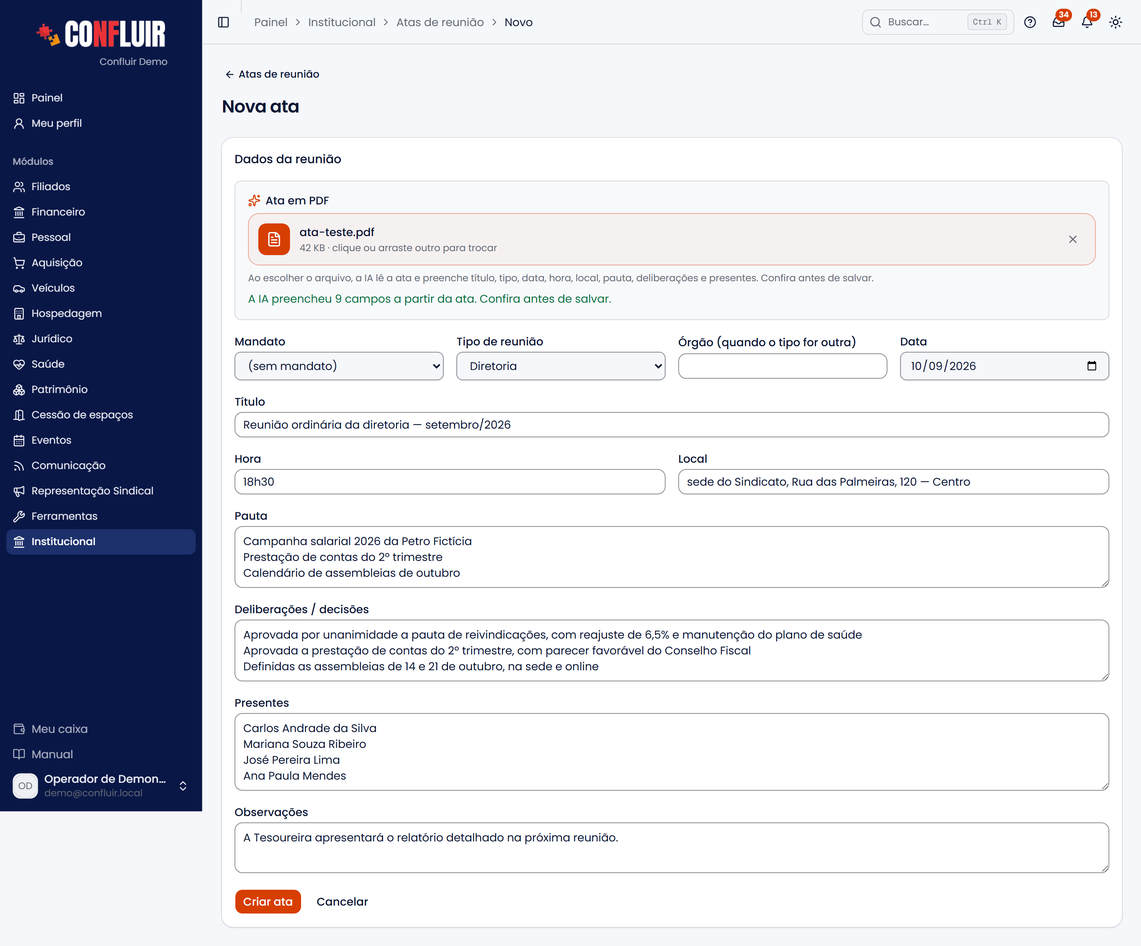
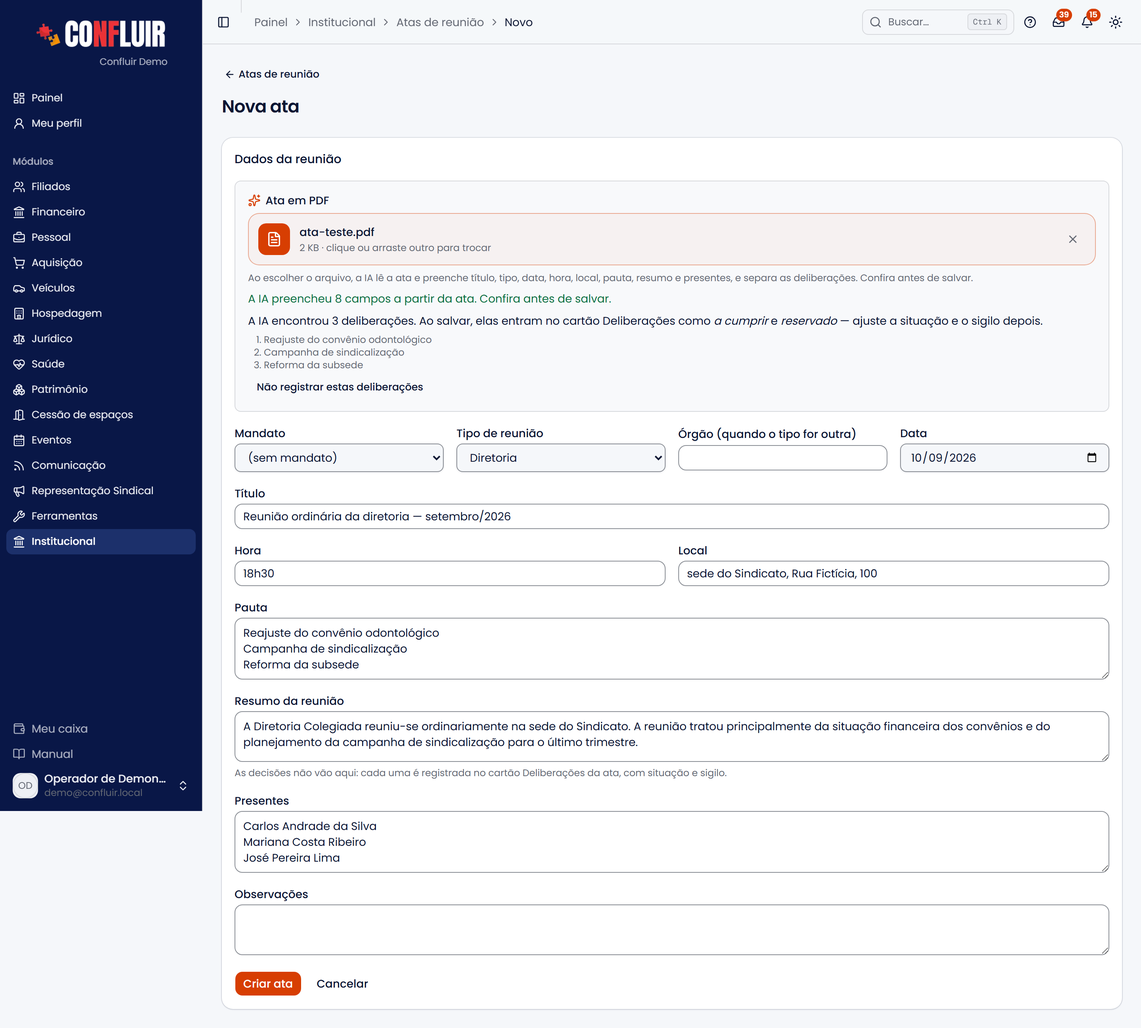
Atas de reunião: o campo de deliberações vira o resumo da reunião
reuniao_ata.deliberacoes renomeada para resumo (migração aplicada); as
decisões ficam só nos itens. A leitura do PDF por IA escreve o resumo e
separa as deliberações, gravadas ao salvar como a cumprir/reservado (só
em ata que ainda não tem nenhuma). Seed do demo, manual e print.

diff --git a/src/lib/ajuda/base-conhecimento.ts b/src/lib/ajuda/base-conhecimento.ts
@@ -317,7 +317,7 @@ export const BASE_AJUDA: ArtigoBase[] = [
   {
     "area": "institucional",
     "slug": "diretoria",
-    "texto": "A Diretoria organiza os mandatos e os integrantes da entidade — e é dela\nque saem os signatários dos ofícios. Ela tem duas abas: Mandatos e\nInstâncias.\n\n Mandatos e integrantes \n\n Mandatos e integrantes\n\n \n \nMandato: \n Um período de gestão, com início e fim. A página do mandato mostra os dados\n (lápis para editar), três cartões — Instâncias, Liberações sindicais e\n Atas de reunião, cada um com o total e a própria página — e os\n integrantes por grupo.\n \n \nA linha de cada integrante: \n Mostra o cargo, o departamento da pessoa em Organização (ou sem\n departamento), as instâncias em que representa a entidade, o selo\n Liberado quando há liberação vigente e a situação: licenciado ou\n excluído, com a data e o motivo.\n \n \nFicha do integrante: \n Cada integrante tem uma ficha: dados pessoais, endereço, vínculo, dados\n bancários, acessibilidade, contato de emergência e CNH — o que já está na\n filiação ou em Condutores aparece de lá.\n \n \n\n Licenciado ou excluído\n\nNo lápis do integrante, Situação no mandato: Em exercício (o padrão),\nLicenciado ou Excluído, com desde e motivo. A pessoa continua na\nlista do mandato, marcada — o excluído aparece riscado. Licenciado e excluído\nnão assinam ofícios: saem da lista de assinantes, mesmo com Assina ofícios\nmarcado.\n\n A ficha reflete os outros cadastros\n\nO que já existe em outro cadastro aparece na ficha — não se digita de novo.\nO que só o institucional tem continua nele.\n\n| Na ficha | De onde vem |\n|---|---|\n| Nascimento, e-mail, telefone, endereço, dados bancários, contato de emergência | Cadastro de filiação (selo Da filiação) |\n| Vínculos empregatícios (empresa, matrícula, lotação) | Cadastro de filiação, só para consulta |\n| CNH (número, categoria, validade, arquivo) | Veículos › Condutores, só para consulta |\n| Tamanho de camisa, tipo sanguíneo, acessibilidade | Só do institucional |\n\n \n\nAlterar na ficha altera a filiação: \n Para quem é filiado, mudar telefone, endereço, dados bancários ou o contato de\n emergência na ficha grava no cadastro de filiação — o mesmo dado passa a\n valer no perfil do filiado, nos reembolsos e no portal. A alteração fica\n registrada no prontuário da filiação. O contato de emergência editável é o\n primeiro da filiação; os demais continuam lá.\n \n\nA filiação é a vinculada ao integrante ou, sem vínculo, a do mesmo CPF. Um\nintegrante sem filiação (convidado, dirigente de outra base) tem a ficha\ncompleta guardada no institucional, como antes. A CNH aparece para quem está no\ncadastro de condutores — é lá que ela é cadastrada e atualizada.\n\n Instâncias\n\nInstâncias são as entidades em que o sindicato tem assento — conselhos,\ncomissões, fóruns. Elas são cadastradas fora do mandato, na aba\nInstâncias; os diretores são vinculados a elas dentro do mandato.\n\n \n \nCadastre a instância: \n Na aba Instâncias, em Nova instância: nome e descrição.\n \n \nVincule o diretor no mandato: \n Abra o mandato e, no cartão Instâncias, use Vincular diretor a uma\n instância: a instância, o diretor, o cargo nela, o período e o documento\n de posse.\n \n \nVeja a tag: \n Na lista de integrantes do mandato, quem tem vínculo em andamento ganha uma\n tag com o nome da instância. A página da instância lista todos os\n vínculos, de todos os mandatos, só para consulta.\n \n \n\n \n\n Liberações sindicais\n\nNo mandato, abra o cartão Liberações sindicais. Em Registrar liberação,\numa chave escolhe o jeito de lançar:\n\n- Individual — um diretor, o empregador, o tipo (permanente ou pontual), a\n vigência e o documento que oficializou.\n- Várias liberações — para quando um ofício libera várias pessoas, o\n caso mais comum.\n\n \n \nEscolha o ofício: \n O ofício é o da área de Ofícios — emita-o lá primeiro. O empregador vem\n preenchido com o destinatário do ofício, quando ele é uma fonte pagadora.\n \n \nAdicione as pessoas: \n Para cada pessoa, a data de saída e a data de retorno. A pessoa pode\n ser um diretor do mandato ou um trabalhador da base — escolha\n Trabalhador da base e busque o filiado; ele não precisa ser diretor. Sem\n data de retorno, a liberação fica permanente.\n \n \nRegistre: \n Uma liberação por pessoa é criada de uma vez, todas ligadas ao mesmo\n ofício. Na tabela, o trabalhador da base aparece com a marca base, e a\n coluna Documento leva ao ofício — que, por sua vez, lista as liberações\n registradas com ele.\n \n \n\n \n\nNo Meu perfil do diretor, a liberação aparece como em vigor, prevista\n(ainda não começou) ou encerrada.\n\n Signatários dos ofícios\n\nOs integrantes vigentes de um mandato são as pessoas oferecidas como\nassinantes ao emitir um ofício — por isso manter a diretoria em dia reflete\ndireto nos documentos.\n\n Atas de reunião\n\nAs atas ficam ancoradas no mandato — no cartão Atas de reunião — com tipo,\npauta, deliberações, presentes e o PDF da ata. Há também uma visão geral das\natas na área própria.\n\nDuas permissões separam quem lê de quem escreve: Atas de reunião —\nconsultar abre a lista, as atas e o PDF, sem os botões de Nova ata, Editar e\nExcluir; Atas de reunião — criar e editar faz tudo, inclusive consultar.\n\n Deliberações\n\nCada decisão da reunião é registrada como um item próprio, no cartão\nDeliberações da página da ata (Nova deliberação): assunto, teor da\ndecisão, votação, responsável, prazo, situação (a cumprir, em execução,\ncumprida ou cancelada) e sigilo (livre, reservado ou restrito). O lápis\nao lado de cada item edita — é assim que se atualiza a situação quando a\ndecisão é cumprida.\n\nEm Institucional → Deliberações ficam todas elas, da reunião mais recente\npara a mais antiga, com filtros por período (a data da reunião), assunto\n(busca no assunto e no teor), situação, sigilo e tipo de reunião. Os\nquadros no alto contam quantas estão em cada situação e filtram com um\nclique; prazo vencido de decisão ainda não cumprida aparece em vermelho.\nAbre com as mesmas permissões das atas.\n\n \n\nAs decisões que estavam no texto das atas antigas viraram itens — um por\nlinha, como a cumprir e reservado. Confira e ajuste a situação e o\nsigilo de cada uma.\n\nSuba o PDF e a IA preenche a ata: \n Em Nova ata, o campo Ata em PDF fica no alto. Ao escolher o arquivo, a\n IA lê a ata — digitada ou escaneada — e preenche tipo, data, título, hora,\n local, pauta, deliberações, presentes e observações. Confira antes de\n salvar. Numa ata já registrada, só os campos vazios são preenchidos.\n \n\n \n\n \n\n Diárias da diretoria\n\nDiretor também recebe diária, e ela mora aqui — na aba Diárias, não em\nPessoal. O motor é o mesmo das diárias de funcionário, mas a porta é outra: só\nentra quem tem a permissão Diárias da diretoria, então quem cuida de folha e\nponto não vê nem avalia a diretoria (e vice-versa).\n\nAs diárias de cada diretor entram na remessa dele, e a avaliação é da\nremessa inteira — o mesmo fluxo de Pessoal, com aprovar, devolver com\nobservação e reenviar (veja Diárias). As\nremessas da diretoria ficam no botão Remessas desta aba.\n\nNo alto ficam os números do ano: quantas aguardam avaliação, quantas foram\naprovadas, o valor das diárias e o das despesas extras — e, logo abaixo, o\naprovado por departamento, que é como a contabilidade enxerga.\n\n \n \nLançar: \n Lançar diária abre o formulário (com Salvar e lançar outra ou\n Salvar e enviar a remessa): o diretor, o departamento que banca a\n atividade, o tipo, a quantidade, o período e a atividade. Quase nenhum\n diretor tem conta no sistema, então quem costuma lançar é a secretaria — o\n sistema guarda quem digitou. Quem tem conta pede a própria em\n Meu perfil → Minhas diárias.\n \n \nAcrescentar as despesas: \n Na tela da diária, enquanto ela aguarda avaliação, entram as despesas\n extras — hospedagem, alimentação, passagem — com valor e comprovante.\n \n \nAvaliar a remessa: \n Em Remessas, abra a remessa do diretor e aprove — nasce uma ordem\n de pagamento com o valor da remessa, rateada pelas contas dos\n departamentos — ou devolva com observação. Como quase nenhum diretor\n tem conta, quem corrige e reenvia é a própria secretaria, na tela da\n remessa (o botão Retirar tira uma diária com problema).\n \n \n\n \n\nO departamento decide a conta contábil: \n O departamento do diretor vem do cadastro dele (Organização → Departamentos)\n ou do próprio cargo, e pode ser trocado no lançamento quando a atividade é de\n outra área. É ele que escolhe a conta — no plano de contas, \"Deslocamento\n Diretores\" existe repetido em cada departamento.\n \n\n \n\n \n\nAs diárias de cada diretor também aparecem na ficha dele, com o total\naprovado no ano.\n\n Erros comuns\n\n- \"O signatário não aparece ao emitir um ofício.\" Só os integrantes\n vigentes do mandato são oferecidos como assinantes — confira o período do\n mandato e o cargo do integrante.\n- \"A ata não aparece.\" As atas ficam ancoradas no mandato; abra o\n cartão Atas de reunião do mandato (há também a visão geral na área própria).\n- \"O integrante aparece sem departamento.\" Vincule a pessoa em\n Institucional → Organização → Departamentos (ela precisa ter conta de usuário).\n- \"Uma diretora licenciada ainda aparece como assinante.\" Confira a\n Situação no mandato no lápis dela — licenciado e excluído saem dos assinantes.\n- \"Mudei o telefone na ficha e mudou no filiado.\" É o esperado: para quem\n é filiado, a ficha e a filiação são o mesmo cadastro.\n- \"A CNH não aparece na ficha.\" A pessoa não está em Veículos › Condutores\n (ou não tem conta de usuário com o mesmo CPF). Cadastre lá.\n- \"Não acho o ofício para vincular as liberações.\" Só aparecem ofícios\n emitidos na área de Ofícios. Emita-o lá e volte.\n- \"Não consigo vincular o diretor à instância na página dela.\" O vínculo\n é lançado dentro do mandato, no cartão Instâncias; a página da instância é\n só consulta.\n- \"O integrante saiu da diretoria mas continua aparecendo.\" Encerre o\n mandato ou o vínculo do integrante para tirá-lo dos vigentes.\n- \"A aba Diárias não aparece.\" Ela só aparece para quem tem a permissão\n Diárias da diretoria — peça a quem administra os acessos.\n- \"O diretor não aparece no formulário de diária.\" Só entram integrantes\n em exercício do mandato vigente que tenham cadastro de usuário. Ligue a\n pessoa a um usuário no lápis dela, no mandato.\n- \"Não há tipo de diária para escolher.\" Os tipos ficam em Pessoal →\n Diárias → Tipos de diária, e cada um diz se vale para funcionários, para a\n diretoria ou para os dois.\n- \"A diária do diretor apareceu na conta errada.\" Confira o departamento da\n solicitação e o de-para em Diárias → Centros de custo.\n- \"Não acho onde aprovar a diária do diretor.\" A avaliação é da remessa:\n botão Remessas, nesta aba, ou Abrir a remessa para avaliar na tela da\n diária. Na lista, as diárias têm só Ver."
+    "texto": "A Diretoria organiza os mandatos e os integrantes da entidade — e é dela\nque saem os signatários dos ofícios. Ela tem duas abas: Mandatos e\nInstâncias.\n\n Mandatos e integrantes \n\n Mandatos e integrantes\n\n \n \nMandato: \n Um período de gestão, com início e fim. A página do mandato mostra os dados\n (lápis para editar), três cartões — Instâncias, Liberações sindicais e\n Atas de reunião, cada um com o total e a própria página — e os\n integrantes por grupo.\n \n \nA linha de cada integrante: \n Mostra o cargo, o departamento da pessoa em Organização (ou sem\n departamento), as instâncias em que representa a entidade, o selo\n Liberado quando há liberação vigente e a situação: licenciado ou\n excluído, com a data e o motivo.\n \n \nFicha do integrante: \n Cada integrante tem uma ficha: dados pessoais, endereço, vínculo, dados\n bancários, acessibilidade, contato de emergência e CNH — o que já está na\n filiação ou em Condutores aparece de lá.\n \n \n\n Licenciado ou excluído\n\nNo lápis do integrante, Situação no mandato: Em exercício (o padrão),\nLicenciado ou Excluído, com desde e motivo. A pessoa continua na\nlista do mandato, marcada — o excluído aparece riscado. Licenciado e excluído\nnão assinam ofícios: saem da lista de assinantes, mesmo com Assina ofícios\nmarcado.\n\n A ficha reflete os outros cadastros\n\nO que já existe em outro cadastro aparece na ficha — não se digita de novo.\nO que só o institucional tem continua nele.\n\n| Na ficha | De onde vem |\n|---|---|\n| Nascimento, e-mail, telefone, endereço, dados bancários, contato de emergência | Cadastro de filiação (selo Da filiação) |\n| Vínculos empregatícios (empresa, matrícula, lotação) | Cadastro de filiação, só para consulta |\n| CNH (número, categoria, validade, arquivo) | Veículos › Condutores, só para consulta |\n| Tamanho de camisa, tipo sanguíneo, acessibilidade | Só do institucional |\n\n \n\nAlterar na ficha altera a filiação: \n Para quem é filiado, mudar telefone, endereço, dados bancários ou o contato de\n emergência na ficha grava no cadastro de filiação — o mesmo dado passa a\n valer no perfil do filiado, nos reembolsos e no portal. A alteração fica\n registrada no prontuário da filiação. O contato de emergência editável é o\n primeiro da filiação; os demais continuam lá.\n \n\nA filiação é a vinculada ao integrante ou, sem vínculo, a do mesmo CPF. Um\nintegrante sem filiação (convidado, dirigente de outra base) tem a ficha\ncompleta guardada no institucional, como antes. A CNH aparece para quem está no\ncadastro de condutores — é lá que ela é cadastrada e atualizada.\n\n Instâncias\n\nInstâncias são as entidades em que o sindicato tem assento — conselhos,\ncomissões, fóruns. Elas são cadastradas fora do mandato, na aba\nInstâncias; os diretores são vinculados a elas dentro do mandato.\n\n \n \nCadastre a instância: \n Na aba Instâncias, em Nova instância: nome e descrição.\n \n \nVincule o diretor no mandato: \n Abra o mandato e, no cartão Instâncias, use Vincular diretor a uma\n instância: a instância, o diretor, o cargo nela, o período e o documento\n de posse.\n \n \nVeja a tag: \n Na lista de integrantes do mandato, quem tem vínculo em andamento ganha uma\n tag com o nome da instância. A página da instância lista todos os\n vínculos, de todos os mandatos, só para consulta.\n \n \n\n \n\n Liberações sindicais\n\nNo mandato, abra o cartão Liberações sindicais. Em Registrar liberação,\numa chave escolhe o jeito de lançar:\n\n- Individual — um diretor, o empregador, o tipo (permanente ou pontual), a\n vigência e o documento que oficializou.\n- Várias liberações — para quando um ofício libera várias pessoas, o\n caso mais comum.\n\n \n \nEscolha o ofício: \n O ofício é o da área de Ofícios — emita-o lá primeiro. O empregador vem\n preenchido com o destinatário do ofício, quando ele é uma fonte pagadora.\n \n \nAdicione as pessoas: \n Para cada pessoa, a data de saída e a data de retorno. A pessoa pode\n ser um diretor do mandato ou um trabalhador da base — escolha\n Trabalhador da base e busque o filiado; ele não precisa ser diretor. Sem\n data de retorno, a liberação fica permanente.\n \n \nRegistre: \n Uma liberação por pessoa é criada de uma vez, todas ligadas ao mesmo\n ofício. Na tabela, o trabalhador da base aparece com a marca base, e a\n coluna Documento leva ao ofício — que, por sua vez, lista as liberações\n registradas com ele.\n \n \n\n \n\nNo Meu perfil do diretor, a liberação aparece como em vigor, prevista\n(ainda não começou) ou encerrada.\n\n Signatários dos ofícios\n\nOs integrantes vigentes de um mandato são as pessoas oferecidas como\nassinantes ao emitir um ofício — por isso manter a diretoria em dia reflete\ndireto nos documentos.\n\n Atas de reunião\n\nAs atas ficam ancoradas no mandato — no cartão Atas de reunião — com tipo,\npauta, um breve resumo da reunião, presentes e o PDF da ata. As decisões\nnão vão no resumo: cada uma é uma deliberação própria (abaixo). Há também uma visão geral das\natas na área própria.\n\nDuas permissões separam quem lê de quem escreve: Atas de reunião —\nconsultar abre a lista, as atas e o PDF, sem os botões de Nova ata, Editar e\nExcluir; Atas de reunião — criar e editar faz tudo, inclusive consultar.\n\n Deliberações\n\nCada decisão da reunião é registrada como um item próprio, no cartão\nDeliberações da página da ata (Nova deliberação): assunto, teor da\ndecisão, votação, responsável, prazo, situação (a cumprir, em execução,\ncumprida ou cancelada) e sigilo (livre, reservado ou restrito). O lápis\nao lado de cada item edita — é assim que se atualiza a situação quando a\ndecisão é cumprida.\n\nEm Institucional → Deliberações ficam todas elas, da reunião mais recente\npara a mais antiga, com filtros por período (a data da reunião), assunto\n(busca no assunto e no teor), situação, sigilo e tipo de reunião. Os\nquadros no alto contam quantas estão em cada situação e filtram com um\nclique; prazo vencido de decisão ainda não cumprida aparece em vermelho.\nAbre com as mesmas permissões das atas.\n\n \n\nAs decisões que estavam no texto das atas antigas viraram itens — um por\nlinha, como a cumprir e reservado —, e aquele texto passou a ser o\nresumo da ata. Confira a situação e o sigilo de cada item e, se quiser,\nreescreva o resumo.\n\nSuba o PDF e a IA preenche a ata: \n Em Nova ata, o campo Ata em PDF fica no alto. Ao escolher o arquivo, a\n IA lê a ata — digitada ou escaneada — e preenche tipo, data, título, hora,\n local, pauta, resumo, presentes e observações, e separa as\n deliberações: a lista aparece no formulário e, ao salvar, cada uma vira\n um item a cumprir e reservado (o botão Não registrar estas\n deliberações descarta a lista). Confira antes de salvar. Numa ata já\n registrada, só os campos vazios são preenchidos, e as deliberações lidas só\n entram se a ata ainda não tiver nenhuma.\n \n\n \n\n \n\n Diárias da diretoria\n\nDiretor também recebe diária, e ela mora aqui — na aba Diárias, não em\nPessoal. O motor é o mesmo das diárias de funcionário, mas a porta é outra: só\nentra quem tem a permissão Diárias da diretoria, então quem cuida de folha e\nponto não vê nem avalia a diretoria (e vice-versa).\n\nAs diárias de cada diretor entram na remessa dele, e a avaliação é da\nremessa inteira — o mesmo fluxo de Pessoal, com aprovar, devolver com\nobservação e reenviar (veja Diárias). As\nremessas da diretoria ficam no botão Remessas desta aba.\n\nNo alto ficam os números do ano: quantas aguardam avaliação, quantas foram\naprovadas, o valor das diárias e o das despesas extras — e, logo abaixo, o\naprovado por departamento, que é como a contabilidade enxerga.\n\n \n \nLançar: \n Lançar diária abre o formulário (com Salvar e lançar outra ou\n Salvar e enviar a remessa): o diretor, o departamento que banca a\n atividade, o tipo, a quantidade, o período e a atividade. Quase nenhum\n diretor tem conta no sistema, então quem costuma lançar é a secretaria — o\n sistema guarda quem digitou. Quem tem conta pede a própria em\n Meu perfil → Minhas diárias.\n \n \nAcrescentar as despesas: \n Na tela da diária, enquanto ela aguarda avaliação, entram as despesas\n extras — hospedagem, alimentação, passagem — com valor e comprovante.\n \n \nAvaliar a remessa: \n Em Remessas, abra a remessa do diretor e aprove — nasce uma ordem\n de pagamento com o valor da remessa, rateada pelas contas dos\n departamentos — ou devolva com observação. Como quase nenhum diretor\n tem conta, quem corrige e reenvia é a própria secretaria, na tela da\n remessa (o botão Retirar tira uma diária com problema).\n \n \n\n \n\nO departamento decide a conta contábil: \n O departamento do diretor vem do cadastro dele (Organização → Departamentos)\n ou do próprio cargo, e pode ser trocado no lançamento quando a atividade é de\n outra área. É ele que escolhe a conta — no plano de contas, \"Deslocamento\n Diretores\" existe repetido em cada departamento.\n \n\n \n\n \n\nAs diárias de cada diretor também aparecem na ficha dele, com o total\naprovado no ano.\n\n Erros comuns\n\n- \"O signatário não aparece ao emitir um ofício.\" Só os integrantes\n vigentes do mandato são oferecidos como assinantes — confira o período do\n mandato e o cargo do integrante.\n- \"A ata não aparece.\" As atas ficam ancoradas no mandato; abra o\n cartão Atas de reunião do mandato (há também a visão geral na área própria).\n- \"O integrante aparece sem departamento.\" Vincule a pessoa em\n Institucional → Organização → Departamentos (ela precisa ter conta de usuário).\n- \"Uma diretora licenciada ainda aparece como assinante.\" Confira a\n Situação no mandato no lápis dela — licenciado e excluído saem dos assinantes.\n- \"Mudei o telefone na ficha e mudou no filiado.\" É o esperado: para quem\n é filiado, a ficha e a filiação são o mesmo cadastro.\n- \"A CNH não aparece na ficha.\" A pessoa não está em Veículos › Condutores\n (ou não tem conta de usuário com o mesmo CPF). Cadastre lá.\n- \"Não acho o ofício para vincular as liberações.\" Só aparecem ofícios\n emitidos na área de Ofícios. Emita-o lá e volte.\n- \"Não consigo vincular o diretor à instância na página dela.\" O vínculo\n é lançado dentro do mandato, no cartão Instâncias; a página da instância é\n só consulta.\n- \"O integrante saiu da diretoria mas continua aparecendo.\" Encerre o\n mandato ou o vínculo do integrante para tirá-lo dos vigentes.\n- \"A aba Diárias não aparece.\" Ela só aparece para quem tem a permissão\n Diárias da diretoria — peça a quem administra os acessos.\n- \"O diretor não aparece no formulário de diária.\" Só entram integrantes\n em exercício do mandato vigente que tenham cadastro de usuário. Ligue a\n pessoa a um usuário no lápis dela, no mandato.\n- \"Não há tipo de diária para escolher.\" Os tipos ficam em Pessoal →\n Diárias → Tipos de diária, e cada um diz se vale para funcionários, para a\n diretoria ou para os dois.\n- \"A diária do diretor apareceu na conta errada.\" Confira o departamento da\n solicitação e o de-para em Diárias → Centros de custo.\n- \"Não acho onde aprovar a diária do diretor.\" A avaliação é da remessa:\n botão Remessas, nesta aba, ou Abrir a remessa para avaliar na tela da\n diária. Na lista, as diárias têm só Ver."
   },
   {
     "area": "institucional",

diff --git a/src/app/painel/institucional/atas/ata-form.tsx b/src/app/painel/institucional/atas/ata-form.tsx
@@ -16,7 +16,7 @@ import {
   criarAtaAction,
   excluirAtaAction,
 } from "./actions"
-import { extrairAtaDePdf } from "./ia-actions"
+import { extrairAtaDePdf, type DeliberacaoLida } from "./ia-actions"
 import { useEnvioFormulario } from "@/hooks/use-envio-formulario"
 
 const SELECT =
@@ -29,11 +29,14 @@ export function AtaForm({
   mandatos,
   mandatoPadrao,
   aoCancelarHref,
+  temDeliberacoes = false,
 }: {
   ata?: AtaDetalhe
   mandatos: { id: string; nome: string }[]
   mandatoPadrao?: string
   aoCancelarHref: string
+  /** A ata já tem deliberações: as lidas do PDF não entram (não duplica). */
+  temDeliberacoes?: boolean
 }) {
   const [estado, formAction, pendente] = useActionState(
     ata ? atualizarAtaAction : criarAtaAction,
@@ -46,11 +49,13 @@ export function AtaForm({
   })
   const [lendo, iniciarLeitura] = useTransition()
   const [leitura, setLeitura] = useState<{ ok?: string; erro?: string } | null>(null)
+  const [lidas, setLidas] = useState<DeliberacaoLida[]>([])
 
   // Subiu o PDF: a IA lê a ata e preenche o formulário. Numa ata já salva, só
   // os campos vazios — o que alguém digitou não é sobrescrito.
   function lerComIA(arquivo: File | undefined) {
     setLeitura(null)
+    setLidas([])
     if (!arquivo || arquivo.type !== "application/pdf") return
     const dados = new FormData()
     dados.set("documento", arquivo)
@@ -69,6 +74,7 @@ export function AtaForm({
         el.value = valor
         preenchidos++
       }
+      if (!temDeliberacoes) setLidas(r.deliberacoes ?? [])
       setLeitura({
         ok: preenchidos
           ? `A IA preencheu ${preenchidos} ${preenchidos === 1 ? "campo" : "campos"} a partir da ata. Confira antes de salvar.`
@@ -80,6 +86,7 @@ export function AtaForm({
   return (
     <form action={formAction} {...envio2} className="grid gap-5">
       {ata && <input type="hidden" name="ata_id" value={ata.id} />}
+      <input type="hidden" name="deliberacoes_ia" value={JSON.stringify(lidas)} />
       {estado.erro && (
         <Alert variant="destructive">
           <AlertDescription>{estado.erro}</AlertDescription>
@@ -100,7 +107,8 @@ export function AtaForm({
         />
         <p className="text-muted-foreground text-xs">
           Ao escolher o arquivo, a IA lê a ata e preenche título, tipo, data, hora, local, pauta,
-          deliberações e presentes{ata ? " que estiverem vazios" : ""}. Confira antes de salvar.
+          resumo e presentes{ata ? " que estiverem vazios" : ""}, e separa as deliberações. Confira antes
+          de salvar.
         </p>
         {lendo && (
           <p className="text-muted-foreground flex items-center gap-1.5 text-sm">
@@ -110,6 +118,23 @@ export function AtaForm({
         )}
         {leitura?.ok && <p className="text-success-fg text-sm">{leitura.ok}</p>}
         {leitura?.erro && <p className="text-destructive text-sm">{leitura.erro}</p>}
+        {lidas.length > 0 && (
+          <div className="grid gap-1.5 text-sm">
+            <p>
+              A IA encontrou {lidas.length} {lidas.length === 1 ? "deliberação" : "deliberações"}. Ao salvar,
+              {lidas.length === 1 ? " ela entra" : " elas entram"} no cartão Deliberações como <em>a cumprir</em> e{" "}
+              <em>reservado</em> — ajuste a situação e o sigilo depois.
+            </p>
+            <ol className="text-muted-foreground list-decimal pl-5 text-xs">
+              {lidas.map((d, i) => (
+                <li key={i}>{d.assunto}</li>
+              ))}
+            </ol>
+            <Button type="button" variant="ghost" size="sm" className="justify-self-start" onClick={() => setLidas([])}>
+              Não registrar estas deliberações
+            </Button>
+          </div>
+        )}
       </div>
 
       <div className="grid gap-4 sm:grid-cols-2 lg:grid-cols-4">
@@ -187,13 +212,17 @@ export function AtaForm({
       </div>
 
       <div className="grid gap-1.5">
-        <Label htmlFor="deliberacoes">Deliberações / decisões</Label>
+        <Label htmlFor="resumo">Resumo da reunião</Label>
         <Textarea
-          id="deliberacoes"
-          name="deliberacoes"
-          rows={4}
-          defaultValue={ata?.deliberacoes ?? ""}
+          id="resumo"
+          name="resumo"
+          rows={3}
+          defaultValue={ata?.resumo ?? ""}
+          placeholder="Em poucas frases, o que se discutiu."
         />
+        <p className="text-muted-foreground text-xs">
+          As decisões não vão aqui: cada uma é registrada no cartão Deliberações da ata, com situação e sigilo.
+        </p>
       </div>
 
       <div className="grid gap-1.5">

diff --git a/src/app/painel/institucional/atas/actions.ts b/src/app/painel/institucional/atas/actions.ts
@@ -12,6 +12,7 @@ import {
   subirDocumentoAta,
   type DadosAta,
 } from "@/lib/db/atas"
+import { registrarDeliberacoesLidas } from "@/lib/db/deliberacoes"
 import { TIPOS_REUNIAO, type TipoReuniao } from "@/lib/atas-constantes"
 
 function texto(fd: FormData, campo: string): string {
@@ -51,9 +52,37 @@ function lerDados(fd: FormData): Omit<DadosAta, "documento_url"> {
     hora: ouNull(texto(fd, "hora")),
     local: ouNull(texto(fd, "local")),
     pauta: ouNull(texto(fd, "pauta")),
-    deliberacoes: ouNull(texto(fd, "deliberacoes")),
+    resumo: ouNull(texto(fd, "resumo")),
     presentes: ouNull(texto(fd, "presentes")),
     observacoes: ouNull(texto(fd, "observacoes")),
+  }
+}
+
+/**
+ * Deliberações que a IA leu do PDF, vindas do formulário como JSON
+ * (`deliberacoes_ia`). Formato inválido = nenhuma.
+ */
+function lerDeliberacoesLidas(fd: FormData) {
+  try {
+    const lista = JSON.parse(String(fd.get("deliberacoes_ia") ?? "[]")) as unknown
+    if (!Array.isArray(lista)) return []
+    return lista.slice(0, 50).flatMap((d) => {
+      if (!d || typeof d !== "object") return []
+      const o = d as Record<string, unknown>
+      const s = (k: string) => (typeof o[k] === "string" ? (o[k] as string).trim() : "")
+      const assunto = s("assunto").slice(0, 200)
+      if (!assunto) return []
+      const prazo = s("prazo")
+      return [{
+        assunto,
+        texto: s("texto") || null,
+        votacao: s("votacao") || null,
+        responsavel: s("responsavel") || null,
+        prazo: /^\d{4}-\d{2}-\d{2}$/.test(prazo) ? prazo : null,
+      }]
+    })
+  } catch {
+    return []
   }
 }
 
@@ -61,12 +90,15 @@ export async function criarAtaAction(
   _prev: EstadoForm,
   fd: FormData
 ): Promise<EstadoForm> {
-  await requirePermissao("diretoria_reunioes")
+  const sessao = await requirePermissao("diretoria_reunioes")
   const { caminho, erro: erroArq } = await lerDocumento(fd)
   if (erroArq) return { erro: erroArq }
   const dados = lerDados(fd)
   const { id, erro } = await criarAta({ ...dados, documento_url: caminho ?? null })
   if (erro || !id) return { erro: erro ?? "Falha ao criar." }
+  // A ata já existe: falha nas deliberações lidas não desfaz a ata — elas
+  // podem ser lançadas à mão no cartão Deliberações.
+  await registrarDeliberacoesLidas(id, lerDeliberacoesLidas(fd), sessao.usuario.id)
   revalidar(id, dados.mandato_id ?? undefined)
   redirect(`/painel/institucional/atas/${id}?salvo=1`)
 }
@@ -75,7 +107,7 @@ export async function atualizarAtaAction(
   _prev: EstadoForm,
   fd: FormData
 ): Promise<EstadoForm> {
-  await requirePermissao("diretoria_reunioes")
+  const sessao = await requirePermissao("diretoria_reunioes")
   const id = texto(fd, "ata_id")
   if (!id) return { erro: "Ata inválida." }
   const { caminho, erro: erroArq } = await lerDocumento(fd)
@@ -83,6 +115,8 @@ export async function atualizarAtaAction(
   const dados = lerDados(fd)
   const { erro } = await atualizarAta(id, { ...dados, documento_url: caminho })
   if (erro) return { erro }
+  // Só entram se a ata ainda não tem deliberações (ver registrarDeliberacoesLidas).
+  await registrarDeliberacoesLidas(id, lerDeliberacoesLidas(fd), sessao.usuario.id)
   revalidar(id, dados.mandato_id ?? undefined)
   redirect(`/painel/institucional/atas/${id}?salvo=1`)
 }

diff --git a/src/app/painel/institucional/atas/ia-actions.ts b/src/app/painel/institucional/atas/ia-actions.ts
@@ -6,12 +6,22 @@ import { requirePermissao } from "@/lib/auth"
 import { TIPOS_REUNIAO } from "@/lib/atas-constantes"
 import { gerarJsonIA, gerarJsonIADePdf } from "@/lib/ia"
 
+/** Deliberação lida da ata — vira item ao salvar (a cumprir, reservado). */
+export type DeliberacaoLida = {
+  assunto: string
+  texto: string
+  votacao: string
+  responsavel: string
+  prazo: string
+}
+
 export type ExtracaoAta = {
   valores?: Partial<Record<CampoAta, string>>
+  deliberacoes?: DeliberacaoLida[]
   erro?: string
 }
 
-const CAMPOS = ["titulo", "tipo", "orgao", "data", "hora", "local", "pauta", "deliberacoes", "presentes", "observacoes"] as const
+const CAMPOS = ["titulo", "tipo", "orgao", "data", "hora", "local", "pauta", "resumo", "presentes", "observacoes"] as const
 type CampoAta = (typeof CAMPOS)[number]
 
 const SISTEMA = `Você lê a ata de uma reunião de sindicato e devolve um objeto JSON com os campos abaixo.
@@ -23,7 +33,8 @@ Regras:
 - "data": AAAA-MM-DD. "hora": como no documento, ex. "14h00".
 - "local": onde a reunião aconteceu.
 - "pauta": os itens de pauta, um por linha.
-- "deliberacoes": o que foi decidido, um item por linha, com a decisão e (se houver) o resultado da votação.
+- "resumo": um breve resumo da reunião em 2 a 4 frases — o que se discutiu e o contexto. NÃO liste as decisões aqui.
+- "deliberacoes": a lista das decisões tomadas, cada uma um objeto { "assunto": título curto (até 80 caracteres), "texto": o teor da decisão como consta da ata, "votacao": o resultado da votação se houver (ex. "aprovada por unanimidade"), senão "", "responsavel": quem ficou encarregado de cumprir, se dito, senão "", "prazo": AAAA-MM-DD se a ata fixar prazo, senão "" }. Sem decisões = [].
 - "presentes": os nomes dos presentes, um por linha, sem cargos.
 - "observacoes": encaminhamentos, prazos ou registros que não caibam nos outros campos; senão "".
 - Responda APENAS com o objeto JSON.`
@@ -68,6 +79,25 @@ export async function extrairAtaDePdf(formData: FormData): Promise<ExtracaoAta> 
     if (campo === "tipo" && !TIPOS_REUNIAO.some((t) => t.chave === valor)) continue
     valores[campo] = valor
   }
-  if (Object.keys(valores).length === 0) return { erro: "A IA não encontrou os dados da reunião neste PDF." }
-  return { valores }
+  const deliberacoes: DeliberacaoLida[] = []
+  for (const d of Array.isArray(dados.deliberacoes) ? dados.deliberacoes : []) {
+    if (!d || typeof d !== "object") continue
+    const o = d as Record<string, unknown>
+    const s = (k: string) => (typeof o[k] === "string" ? (o[k] as string).trim() : "")
+    const texto = s("texto")
+    const assunto = (s("assunto") || texto).slice(0, 200)
+    if (!assunto) continue
+    const prazo = s("prazo")
+    deliberacoes.push({
+      assunto,
+      texto,
+      votacao: s("votacao"),
+      responsavel: s("responsavel"),
+      prazo: /^\d{4}-\d{2}-\d{2}$/.test(prazo) ? prazo : "",
+    })
+  }
+  if (Object.keys(valores).length === 0 && deliberacoes.length === 0) {
+    return { erro: "A IA não encontrou os dados da reunião neste PDF." }
+  }
+  return { valores, deliberacoes: deliberacoes.slice(0, 50) }
 }

diff --git a/src/lib/db/deliberacoes.ts b/src/lib/db/deliberacoes.ts
@@ -242,3 +242,38 @@ export async function excluirDeliberacao(id: string): Promise<{ erro?: string }>
   if (error) return { erro: `Falha ao excluir a deliberação: ${error.message}` }
   return {}
 }
+
+/**
+ * Deliberações lidas do PDF pela IA, gravadas ao salvar a ata — como "a
+ * cumprir" e "reservado", para conferir depois. Só entram numa ata que
+ * ainda não tem deliberações (reler o PDF não duplica).
+ */
+export async function registrarDeliberacoesLidas(
+  ataId: string,
+  itens: Omit<DadosDeliberacao, "situacao" | "sigilo">[],
+  usuarioId: string
+): Promise<{ quantidade: number; erro?: string }> {
+  if (itens.length === 0) return { quantidade: 0 }
+  const admin = await createAdminClient()
+  const emp = await tenantAtual()
+  const { count } = await admin
+    .from("reuniao_deliberacao")
+    .select("id", { count: "exact", head: true })
+    .eq("emp_proprietaria_id", emp)
+    .eq("ata_id", ataId)
+  if ((count ?? 0) > 0) return { quantidade: 0 }
+  const { error } = await admin.from("reuniao_deliberacao").insert(
+    itens.map((d, i) => ({
+      ...d,
+      emp_proprietaria_id: emp,
+      ata_id: ataId,
+      ordem: i + 1,
+      situacao: "a_cumprir",
+      sigilo: "reservado",
+      criado_por: usuarioId,
+      atualizado_por: usuarioId,
+    }))
+  )
+  if (error) return { quantidade: 0, erro: `Falha ao registrar as deliberações lidas: ${error.message}` }
+  return { quantidade: itens.length }
+}

diff --git a/src/lib/db/atas.ts b/src/lib/db/atas.ts
@@ -89,7 +89,8 @@ export type AtaDetalhe = {
   hora: string | null
   local: string | null
   pauta: string | null
-  deliberacoes: string | null
+  /** Breve resumo da reunião; as decisões são itens (db/deliberacoes). */
+  resumo: string | null
   presentes: string | null
   observacoes: string | null
   documentoUrl: string | null
@@ -123,7 +124,7 @@ export async function obterAta(id: string): Promise<AtaDetalhe | null> {
     hora: texto(a.hora),
     local: texto(a.local),
     pauta: texto(a.pauta),
-    deliberacoes: texto(a.deliberacoes),
+    resumo: texto(a.resumo),
     presentes: texto(a.presentes),
     observacoes: texto(a.observacoes),
     documentoUrl,
@@ -154,7 +155,8 @@ export type DadosAta = {
   hora: string | null
   local: string | null
   pauta: string | null
-  deliberacoes: string | null
+  /** Breve resumo da reunião; as decisões são itens (db/deliberacoes). */
+  resumo: string | null
   presentes: string | null
   observacoes: string | null
   /** Caminho já gravável (upload na action); undefined = não mexer. */
@@ -171,7 +173,7 @@ function payload(d: DadosAta): Record<string, unknown> {
     hora: d.hora,
     local: d.local,
     pauta: d.pauta,
-    deliberacoes: d.deliberacoes,
+    resumo: d.resumo,
     presentes: d.presentes,
     observacoes: d.observacoes,
     updated_at: new Date().toISOString(),

diff --git a/src/app/painel/institucional/atas/[id]/page.tsx b/src/app/painel/institucional/atas/[id]/page.tsx
@@ -111,7 +111,7 @@ export default async function AtaPage({
         </CardHeader>
         <CardContent>
           {editando ? (
-            <AtaForm ata={a} mandatos={mandatos} aoCancelarHref={aqui} />
+            <AtaForm ata={a} mandatos={mandatos} aoCancelarHref={aqui} temDeliberacoes={deliberacoes.length > 0} />
           ) : (
             <dl className="grid gap-4">
               <div className="grid gap-4 sm:grid-cols-2 lg:grid-cols-4">
@@ -121,7 +121,7 @@ export default async function AtaPage({
                 <Campo rotulo="Tipo" valor={ROTULO_TIPO_REUNIAO[a.tipo]} />
               </div>
               <Campo rotulo="Pauta" valor={a.pauta} />
-              <Campo rotulo="Deliberações / decisões" valor={a.deliberacoes} />
+              <Campo rotulo="Resumo da reunião" valor={a.resumo} />
               <Campo rotulo="Presentes" valor={a.presentes} />
               {a.observacoes && (
                 <Campo rotulo="Observações" valor={a.observacoes} />

diff --git a/docs/dados/dicionario/representacao.md b/docs/dados/dicionario/representacao.md
@@ -21,7 +21,7 @@
 | [representacao_documentos](#representacao_documentos) | — | Documentos de representação por empregador (cartas, termos, registros), com vigência e arquivo, em Representação > Empregadores. |
 | [representacao_reuniao_participantes](#representacao_reuniao_participantes) | identificação, **sensível: sindical**, trabalhista | Participante de uma reunião com empregador ou setorial, do lado do sindicato, da empresa ou dos trabalhadores, com nome e cargo. |
 | [representacao_reunioes](#representacao_reunioes) | identificação | Reunião com empregador ou setorial registrada em Representação > Empregadores, com pauta, resumo (opcionalmente por IA a partir da ata), enc… |
-| [reuniao_ata](#reuniao_ata) | identificação, **sensível: sindical** | Ata de reunião da diretoria, conselho fiscal ou assembleia, ligada ao mandato, com pauta, deliberações e presentes. Tela de atas da Diretori… |
+| [reuniao_ata](#reuniao_ata) | identificação, **sensível: sindical** | Ata de reunião da diretoria, conselho fiscal ou assembleia, ligada ao mandato, com pauta, resumo, presentes e o PDF; as deliberações ficam e… |
 | [reuniao_deliberacao](#reuniao_deliberacao) | identificação, **sensível: sindical** | Deliberação (decisão) de uma reunião registrada em ata: assunto, teor, votação, responsável, prazo, situação do cumprimento e grau de sigilo… |
 
 ## acordo_clausulas
@@ -409,7 +409,7 @@ Reunião com empregador ou setorial registrada em Representação > Empregadores
 
 ## reuniao_ata
 
-Ata de reunião da diretoria, conselho fiscal ou assembleia, ligada ao mandato, com pauta, deliberações e presentes. Tela de atas da Diretoria.
+Ata de reunião da diretoria, conselho fiscal ou assembleia, ligada ao mandato, com pauta, resumo, presentes e o PDF; as deliberações ficam em reuniao_deliberacao.
 
 - **LGPD:** identificação, **sensível: sindical** · titulares: diretores e participantes
 - **RLS:** ligado · policies: `tenant_isolation`
@@ -426,7 +426,7 @@ Ata de reunião da diretoria, conselho fiscal ou assembleia, ligada ao mandato, 
 | `hora` | text | sim |  |  |  |  |
 | `local` | text | sim |  |  |  |  |
 | `pauta` | text | sim |  |  |  |  |
-| `deliberacoes` | text | sim |  |  | identificação |  |
+| `resumo` | text | sim |  |  | identificação | Breve resumo da reunião (o que se discutiu). As decisões ficam em reuniao_deliberacao, com situação e sigilo. |
 | `presentes` | text | sim |  |  | **sensível: sindical** | Nomes dos presentes em reunião de órgão sindical. |
 | `observacoes` | text | sim |  |  | identificação |  |
 | `documento_url` | text | sim |  |  | identificação |  |

diff --git a/docs/lgpd/ropa.md b/docs/lgpd/ropa.md
@@ -281,7 +281,7 @@
 | [ato_eventos_participantes](../dados/dicionario/representacao.md#ato_eventos_participantes) | sens. sindical | `usuario_id` (sens. sindical) |
 | [representacao_reuniao_participantes](../dados/dicionario/representacao.md#representacao_reuniao_participantes) | identificacao, sens. sindical, trabalhista | `lado` (sens. sindical), `nome` (identificacao), `cargo` (trabalhista) |
 | [representacao_reunioes](../dados/dicionario/representacao.md#representacao_reunioes) | identificacao | `resumo` (identificacao), `encaminhamentos` (identificacao), `ata_caminho` (identificacao) |
-| [reuniao_ata](../dados/dicionario/representacao.md#reuniao_ata) | identificacao, sens. sindical | `deliberacoes` (identificacao), `presentes` (sens. sindical), `observacoes` (identificacao), `documento_url` (identificacao) |
+| [reuniao_ata](../dados/dicionario/representacao.md#reuniao_ata) | identificacao, sens. sindical | `resumo` (identificacao), `presentes` (sens. sindical), `observacoes` (identificacao), `documento_url` (identificacao) |
 | [reuniao_deliberacao](../dados/dicionario/representacao.md#reuniao_deliberacao) | identificacao, sens. sindical | `ata_id` (nenhum), `ordem` (nenhum), `assunto` (identificacao), `texto` (identificacao), `votacao` (identificacao), `responsavel` (identificacao), `prazo` (nenhum), `situacao` (nenhum), `sigilo` (nenhum), `criado_por` (identificacao), `atualizado_por` (identificacao) |
 
 </details>
